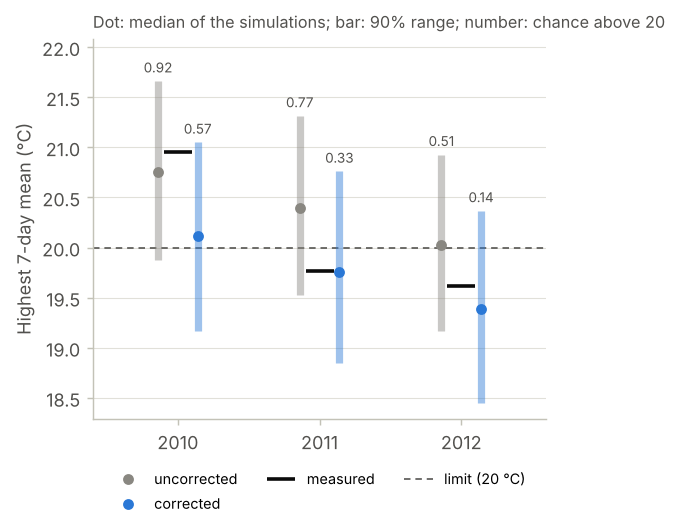
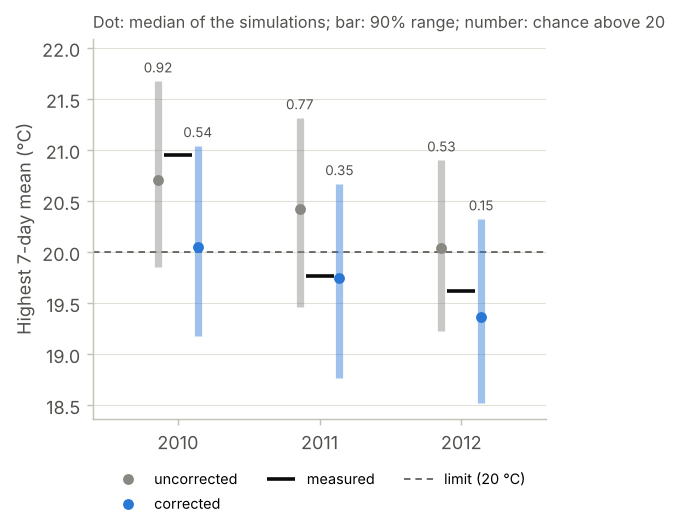
Example 03 rerun on 0.5.1: update figures and quoted numbers
Claude-Session: https://claude.ai/code/session_011cntwns3xnAFTLc6o2maxn

diff --git a/examples/03_compliance/README.md b/examples/03_compliance/README.md
@@ -89,7 +89,7 @@ peak = stats[2010]["highest 7-day mean"]                        # one value per 
 check = pd.read_csv(f"{out}/check/cv_yearly_statistics.csv")
 dev = check[check.statistic == "highest 7-day mean"].deviation  # measured minus predicted median, per hidden year
 peak_c = scenario.correct_statistic(peak, dev, seed=2010)       # corrected for the model's bias
-p_exceeded = (peak_c > 20).mean()                               # share of simulations above the limit: 0.57
+p_exceeded = (peak_c > 20).mean()                               # share of simulations above the limit: 0.54
 ```
 
 The correction includes a random draw. `seed` makes it repeatable.
@@ -120,9 +120,9 @@ year) puts the summer peaks too high.
 
 | Year | P(7-day mean > 20 °C), corrected | uncorrected | Highest 7-day mean, 90% range, corrected | Measured | Days above 18 °C, corrected: median (90% range) | Measured |
 |---|---|---|---|---|---|---|
-| 2010 | 0.57 | 0.92 | 19.2 to 21.1 °C | 21.0 °C | 30 (22 to 38) | 30 |
-| 2011 | 0.33 | 0.77 | 18.8 to 20.8 °C | 19.8 °C | 18 (11 to 27) | 21 |
-| 2012 | 0.14 | 0.51 | 18.4 to 20.4 °C | 19.6 °C | 24 (15 to 33) | 22 |
+| 2010 | 0.54 | 0.92 | 19.2 to 21.0 °C | 21.0 °C | 30 (23 to 37) | 30 |
+| 2011 | 0.35 | 0.77 | 18.8 to 20.7 °C | 19.8 °C | 18 (11 to 27) | 21 |
+| 2012 | 0.15 | 0.53 | 18.5 to 20.3 °C | 19.6 °C | 24 (15 to 34) | 22 |
 
 ![The 7-day mean water temperature in the 1,000 simulations, the measurements and the limit](figures/prediction_7day_mean.png)
 
@@ -140,11 +140,11 @@ exceeded.*
 **Reading it.**
 
 - The limit was in fact exceeded in 2010, and not in 2011 or 2012.
-- The corrected probabilities (0.57, 0.33, 0.14) match this better than the
-  uncorrected ones (0.92, 0.77, 0.51). The uncorrected ones would have called
+- The corrected probabilities (0.54, 0.35, 0.15) match this better than the
+  uncorrected ones (0.92, 0.77, 0.53). The uncorrected ones would have called
   2011 a likely exceedance.
 - The Brier score (the mean squared difference between probability and
-  outcome; lower is better) is 0.10 corrected, against 0.29 uncorrected.
+  outcome; lower is better) is 0.12 corrected, against 0.29 uncorrected.
 - All measured values lie inside the corrected 90% ranges.
 - 2010's measured peak, 21.0 °C, is near the top of its range: the bias in
   2010–2012 was smaller than in 2002–2009.
@@ -152,7 +152,7 @@ exceeded.*
 Report such results as probabilities with ranges, together with the check. Do
 not report them as a yes or no.
 
-**What it does not mean.** A probability of 0.57 does not say the limit was
+**What it does not mean.** A probability of 0.54 does not say the limit was
 exceeded; it says the model cannot tell, and how far it leans. The probability
 is for daily mean temperatures computed from the measured air temperature and
 discharge, with the model and its error as checked here; it does not cover
